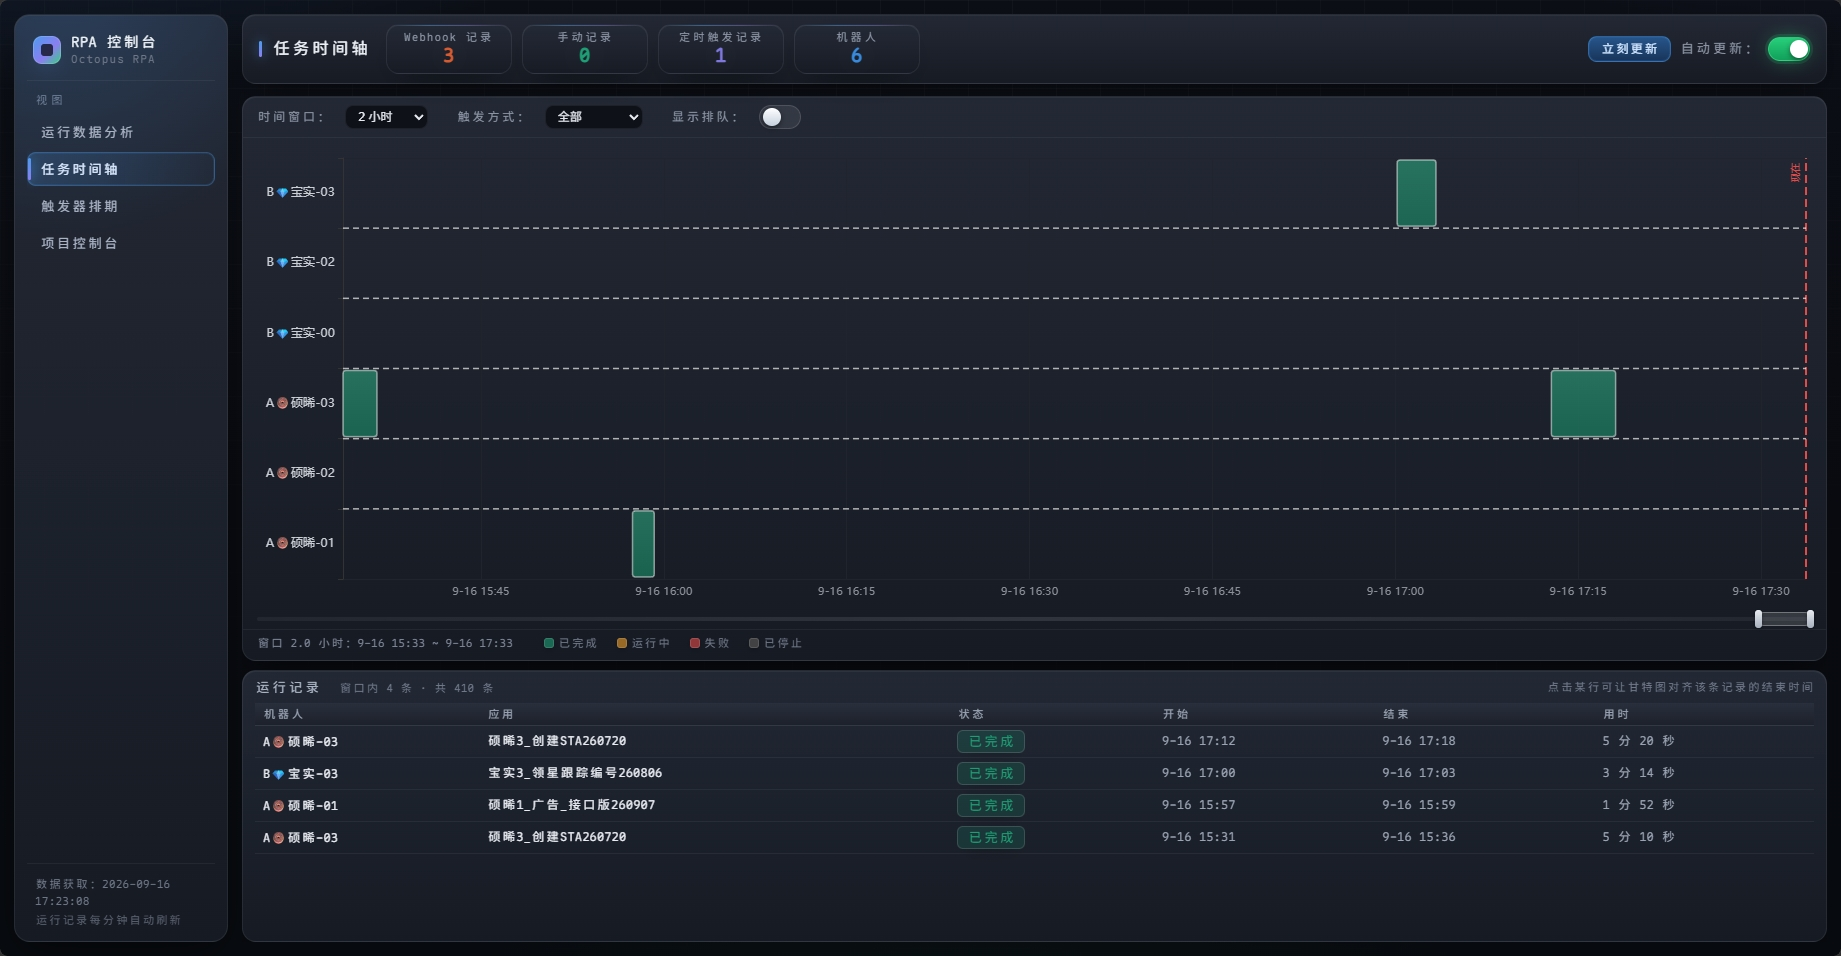
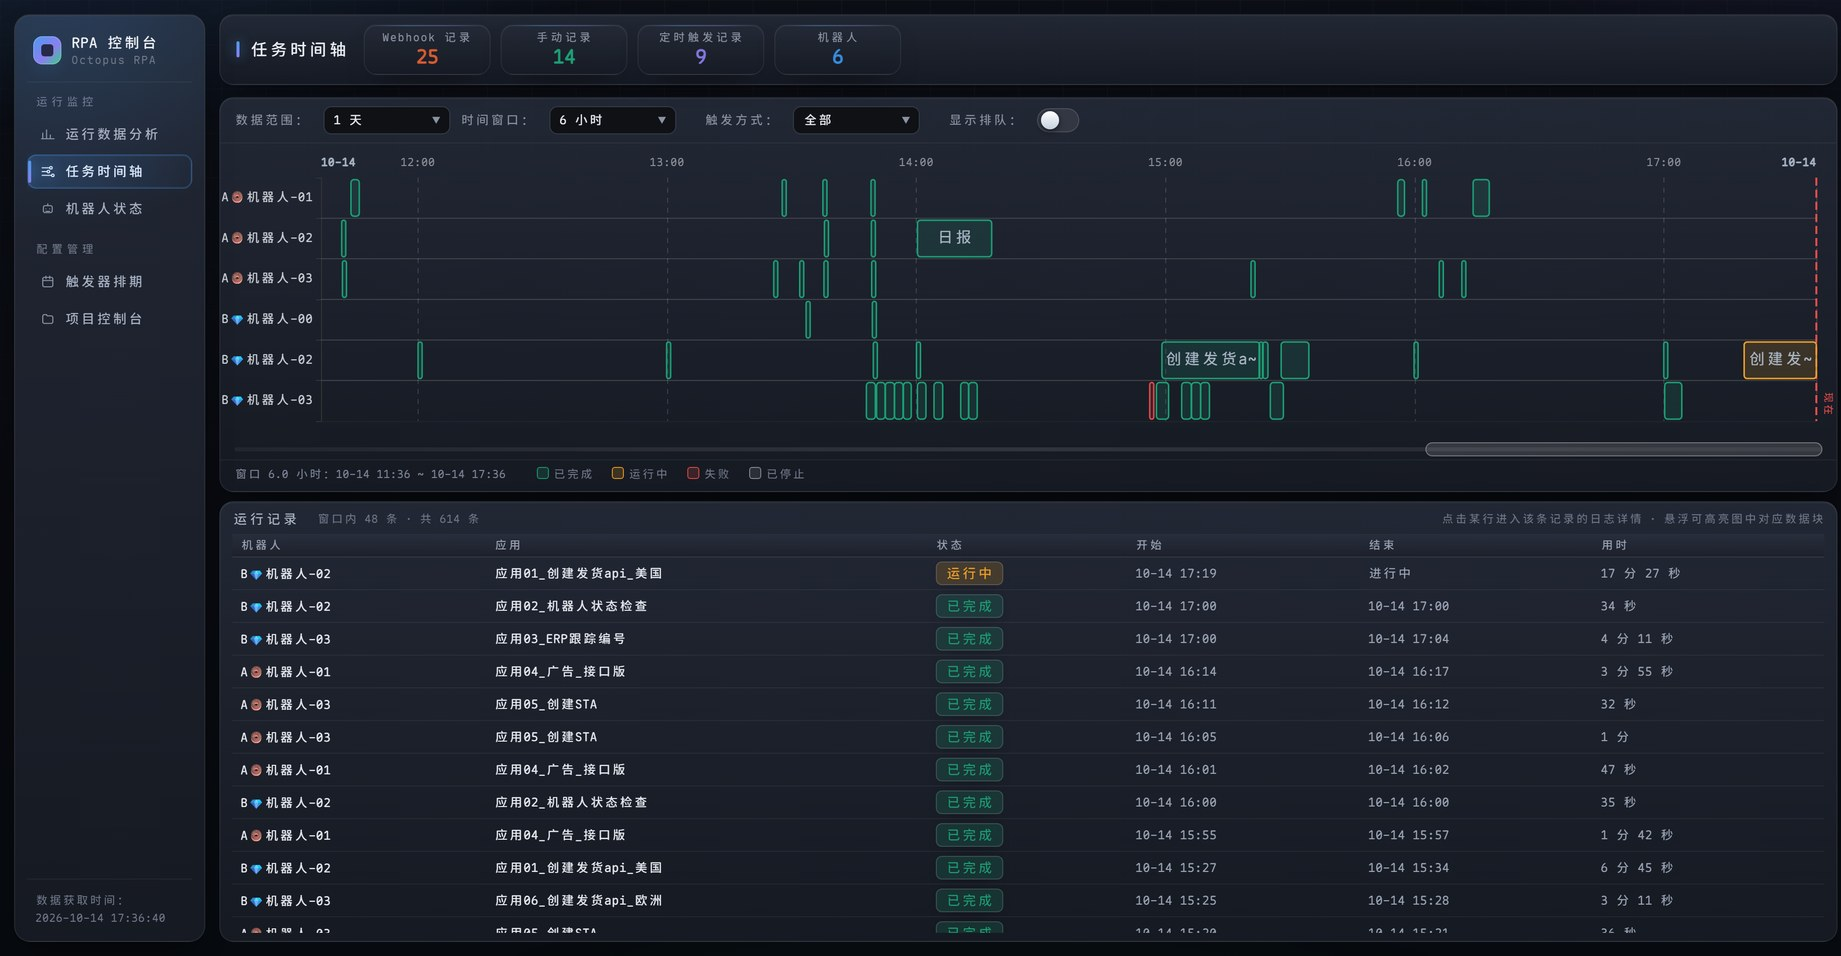
feat: 午夜日期加粗；README 六张例图全部换为真实截图（数据已脱敏）
一、午夜日期加粗（web/app.js）
   tlTickLabel 对午夜那格返回富文本 {md|MM-dd}，xAxis.axisLabel.rich 把它画成
   bold —— 同一个轴逐标签不同字重只能用 rich（formatter 里拿不到画笔）。
   踩到的坑：rich 片段**不继承** axisLabel.fontSize，不写就回落 12px，
   比同排刻度大一号、基线还差半像素；抽出 TL_AXIS_FS 常量统一三处字号
   （轴标签、rich 片段、两端日期角标），并让宽度的判定也用它。

二、README 例图换成真实截图（assets/effect_*.jpg|png，六张）
   所有截图来自真实服务与真实数据，尺寸与原图一致（README 排版不变）。

三、为了「能当例图」而必须解决的脱敏（.shots/，脚手架不进仓库）
   截图不能带凭据与业务名，否则有商业纠纷风险。做法**不是后期涂抹图片**，
   而是在数据出口脱敏 —— 前端照常渲染（字体宽度、布局都是真的），
   所以图看着仍是真实界面。为此写了只读服务 + 脱敏层：

   · .shots/readonly_server.py —— 复用 core/local_server.py 的**真 Handler**，
     但不启动任何轮询线程、不调 init_db()：对 MySQL 只读、对八爪鱼零请求。
     在唯一的 JSON 出口（_send_json）+ 日志读取函数 + local_server.json 代理
     三处收口，保证「凡离开本进程的 JSON 都脱敏」。
   · .shots/anonymize.py ——
       - 凭据：config.json 真密钥逐个精确打码 + 形态兜底
         （飞书 om_/ou_/oc_/cli_/tbl_、tenant_access_token、JWT、webhook UUID、
         cookie 的 Name/Value 分离写法、URL 编码长串、高熵不透明串、卖家账号 ID）
       - 名称：团队名、真实人名、客户/店铺品牌名、平台品牌、内部配置组代号
         → 确定性的通用占位名（应用NN_xxx、A🍩机器人-01、员工）
       - id / log / file 三个字段**可逆**：假值里嵌原值摘要 + 映射落盘，
         重启后仍能还原（否则详情页打不开、日志读不出来）

四、验证（.shots/）
   · test_layout.js   13 通过（泳道避让；对 git HEAD 跑得 9 失败，确认测的是真 bug）
   · render_real.js   17 通过（抽真 tlRender 跑 ECharts SSR，量 SVG 几何）
   · test_anonymize.py 26 通过 —— 拿真实日志当语料做对抗性扫描：
       敏感词、凭据形态、长不透明串（先 URL 解码再判），
       外加「姓氏开头 2~3 字」的未知人名兜底扫描
   · test_restart.py  跨进程重启可逆性（id/log/file 三字段）
   · audit_served.py  走 HTTP 全量审计服务实际吐出的每一份数据
   · extract_names.py 从 60 个日志文件抽出店铺名里的人名/客户名（词表来源）
[…]

diff --git a/web/app.js b/web/app.js
@@ -550,12 +550,34 @@ function tlGrid() { return TL_GRID; }
 var TL_GRID_COLOR = 'rgba(255,255,255,0.15)';
 /* 横轴（时间）刻度的文字：平时只给 HH:mm —— 日期交给左右两端的日期角标（见 tlRender 的 dateData 系列）；
    走到午夜那一格时把 00:00 换成「MM-dd」——跨天的窗口里刻度全是 HH:mm 会分不清落在哪天，
-   而午夜正是天与天的分界，拿它当日期锚点最自然（用户口径：跨天就把那天的 00:00 换成日期）。 */
+   而午夜正是天与天的分界，拿它当日期锚点最自然（用户口径：跨天就把那天的 00:00 换成日期）。
+   返回的是「富文本片段」：午夜那格包一层 {md|...}，由 xAxis.axisLabel.rich 把它画成加粗 ——
+   它代表的是「新的一天开始了」，比普通时刻重一档，扫一眼就能找到天的分界。
+   ECharts 的轴标签只有 rich 能做到「同一个轴、逐标签不同字重」（单个 formatter 里
+   拿不到画笔；axisLabel.fontWeight 是整轴共用的）。 */
 function tlTickLabel(t) {
   var d = new Date(t);
-  if (d.getHours() === 0 && d.getMinutes() === 0) return fmtDateMD(t);
+  if (d.getHours() === 0 && d.getMinutes() === 0) return '{md|' + fmtDateMD(t) + '}';
   return pad(d.getHours()) + ':' + pad(d.getMinutes());
 }
+/* 午夜日期片段的富文本样式（名字 md 与 tlTickLabel 里的 {md|...} 对应）。
+   只改字重 + 显式继承字号，颜色跟整轴一致（不写 color 就继承 axisLabel.color），
+   免得那一格比别处跳出来太多。
+   注意 fontSize 必须显式给：rich 片段不继承 axisLabel.fontSize（见 TL_AXIS_FS 的说明）。 */
+function tlTickRich() {
+  return { md: { fontWeight: 'bold', fontSize: TL_AXIS_FS } };
+}
+/* 判断一个刻度值在视觉上是不是「午夜那格」。formatter 里要按它决定是否用富文本，
+   也得按它决定「宽度」用哪个 —— 让判定只有一处出处。 */
+function tlIsMidnight(t) {
+  var d = new Date(t);
+  return d.getHours() === 0 && d.getMinutes() === 0;
+}
+/* 横轴刻度与两端日期角标的字号（px）。抽成常量：这两行文字必须**同字号**才在一行上
+   基线对齐，而「午夜那格的富文本」还要再显式继承一次 —— ECharts 的 rich 片段
+   不吃 axisLabel.fontSize，不写就回落到富文本默认的 12px，
+   结果午夜那格比别的刻度大一号、基线还差半像素（踩过）。 */
+var TL_AXIS_FS = 11;
 /* 横轴刻度文字与轴线的间距（px）。抽成常量是因为两端的日期角标要和刻度文字**同一行**
    且底边对齐（用户要求：同一行、不许字体重叠）—— 角标的基线必须按同一个值反推，
    写死两处数字迟早会错开。 */
@@ -921,8 +943,8 @@ function tlRender() {
      比如 09-30 与 10-01 —— 取 max 只是让两边看着一样宽，却会白白吃掉一个刻度）。
      文字宽 + 一点间隙。写进模块级的 tlDateBox，给 xAxis.axisLabel.formatter 用
      （它拿不到 tlRender 的局部变量）。 */
-  tlDateBox.l = measureW(dateL, 11) + TL_DATE_GAP_PX;
-  tlDateBox.r = measureW(dateR, 11) + TL_DATE_GAP_PX;
+  tlDateBox.l = measureW(dateL, TL_AXIS_FS) + TL_DATE_GAP_PX;
+  tlDateBox.r = measureW(dateR, TL_AXIS_FS) + TL_DATE_GAP_PX;
   var dateData = [
     { value: [winStart, 0, dateL, 'left'] },
     { value: [nowW, 0, dateR, 'right'] }
@@ -1104,15 +1126,18 @@ function tlRender() {
       type: 'time', min: nowW - state.span, max: nowW,
       position: 'top',
       axisLabel: {
-        color: '#8b8f98', fontSize: 11, hideOverlap: true,
+        color: '#8b8f98', fontSize: TL_AXIS_FS, hideOverlap: true,
         margin: TL_TICK_LABEL_MARGIN,
+        rich: tlTickRich(),
         formatter: function (v) {
           /* 落进左右「日期角标」地带的刻度不给文字：角标与刻度在轴线上方同一行，
              同时画就是叠字。判定用**刻度文字自身占的宽度**（以刻度为中心左右各半），
-             只挡日期本身不够 —— 紧挨着的那个刻度会有半截压在角标上。 */
+             只挡日期本身不够 —— 紧挨着的那个刻度会有半截压在角标上。
+             宽度要按这一格实际会画出来的串算：午夜那格是 MM-dd、其余是 HH:mm，
+             两者宽度不同（11px 等宽下 5 字符 vs 5 字符，但字号不同时就会差开）。 */
           var px = tlTimeX(v);
           if (px == null) return tlTickLabel(v);
-          var half = measureW('00:00', 11) / 2;
+          var half = measureW(tlIsMidnight(v) ? fmtDateMD(v) : '00:00', TL_AXIS_FS) / 2;
           if (px - half < TL_GRID.left + tlDateBox.l) return '';
           var xr = tlTimeX(nowW);
           if (xr != null && px + half > xr - tlDateBox.r) return '';
@@ -1384,7 +1409,7 @@ function tlRender() {
                不会顶出画布，也不会压到左侧的机器人名。 */
             textAlign: side === 'right' ? 'right' : 'left',
             textVerticalAlign: 'bottom',
-            fill: '#a8b4c4', fontSize: 11, fontWeight: 600, fontFamily: FONT_STACK
+            fill: '#a8b4c4', fontSize: TL_AXIS_FS, fontWeight: 600, fontFamily: FONT_STACK
           }
         };
       }

diff --git a/web/index.html b/web/index.html
@@ -254,7 +254,7 @@
                 <div class="pj-tab-panel" id="pjPanelCfg">
                   <div class="toolbar">
                     <span class="filter-label">配置组：</span>
-                    <input type="text" id="pjGroup" placeholder="如 qcc" style="width:120px;">
+                    <input type="text" id="pjGroup" placeholder="如 group-a" style="width:120px;">
                     <button class="btn" id="pjGroupSave">保存映射</button>
                     <button class="btn" id="pjCfgLoad">加载配置</button>
                     <button class="btn" id="pjCfgAdd">＋ 新增配置</button>

diff --git a/README.md b/README.md
@@ -201,7 +201,7 @@ pause
 #### 桌面端（甘特图 + 表格）
 
 - **竖轴 = 机器人**（同一机器人时间重叠的记录自动分多行泳道堆叠），**横轴 = 时间**（右缘=当前时刻，内容随时间缓慢左移）
-- **横轴刻度只读时间（`HH:mm`），日期交给两端的日期角标**：窗口左右边界顶部各标一个 `MM-dd`（左端左对齐、右端右对齐，与刻度同一行、同一基线）；刻度文字若会压到角标就不显示（按文字实际宽度判定保留带）。跨天时，**午夜那一格刻度直接把 `00:00` 换成日期**（`08-15`），因为午夜正是天与天的分界
+- **横轴刻度只读时间（`HH:mm`），日期交给两端的日期角标**：窗口左右边界顶部各标一个 `MM-dd`（左端左对齐、右端右对齐，与刻度同一行、同一基线）；刻度文字若会压到角标就不显示（按文字实际宽度判定保留带）。跨天时，**午夜那一格刻度直接把 `00:00` 换成日期**（`08-15`）并**加粗** —— 午夜正是天与天的分界，加粗一档让人扫一眼就找到它（用 ECharts 富文本实现：同一个轴逐标签不同字重只能用 `rich`）
 - **网格线横竖同色**（`rgba(255,255,255,0.15)`），方向靠虚实区分：**时间刻度竖线是虚线**（背景参考）、**泳道分组分隔线是横实线**（谁属于哪台机器人的结构边界）
 - **数据拆分**：每条记录按「排队（蓝）→ 执行（状态色）」两段区分，整条用白色边框框起；块内文字单行居中、过长截断加 `...`，少于 8 字不显示
 - **极短记录不会被吞掉**：6 秒的记录在 6 小时窗口里只有 0.1px，原来按「不足 2px 不画」直接消失。现在以真实位置为中心撑到 4px 再画（只影响画出来的宽度，**不影响时长读数、拖动换算与点击跳转**，那些都按真实值走）。泳道分配仍按真实时间重叠算，与窗口大小无关，所以 7 天/30 天窗口下泳道数不会膨胀
